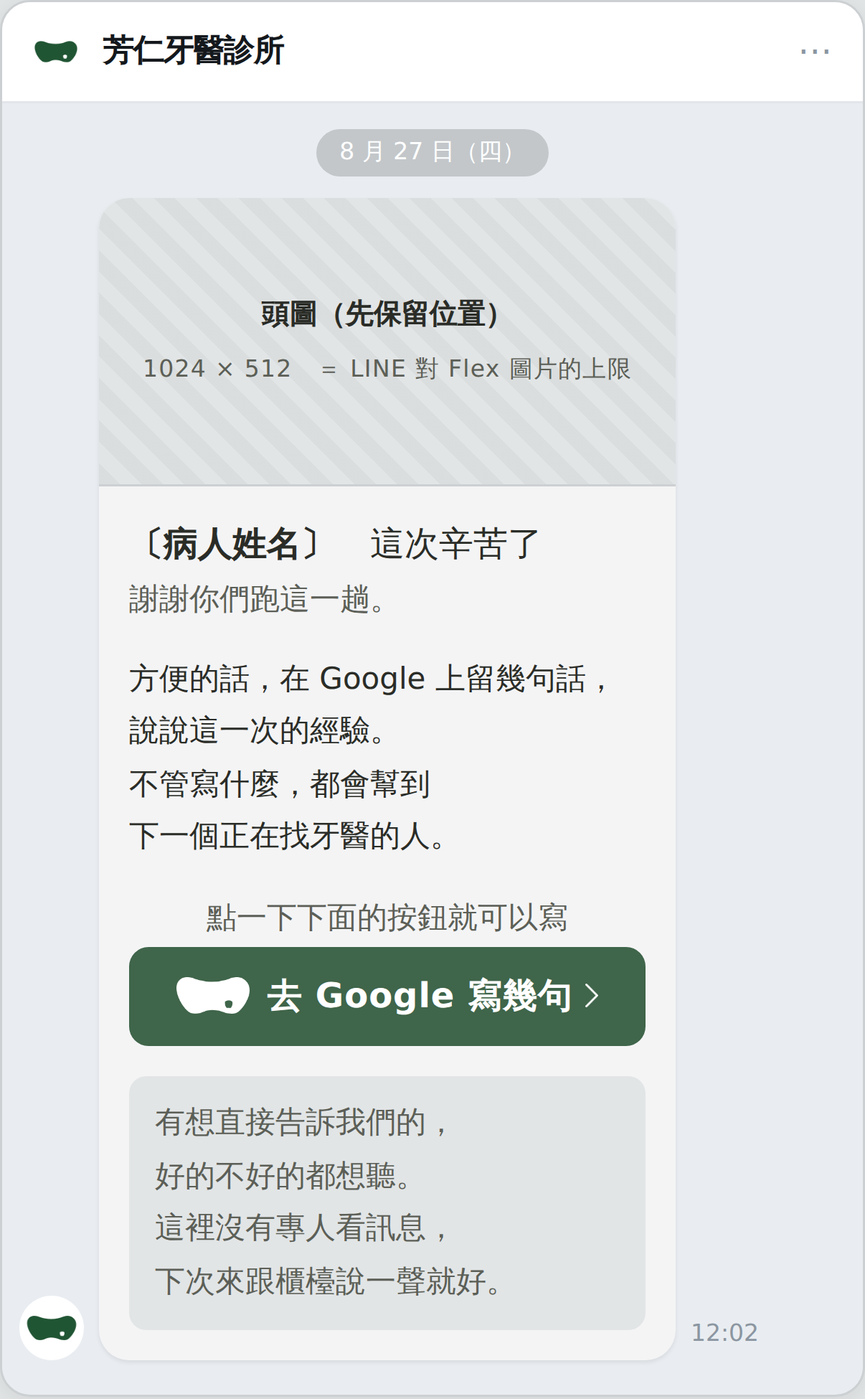
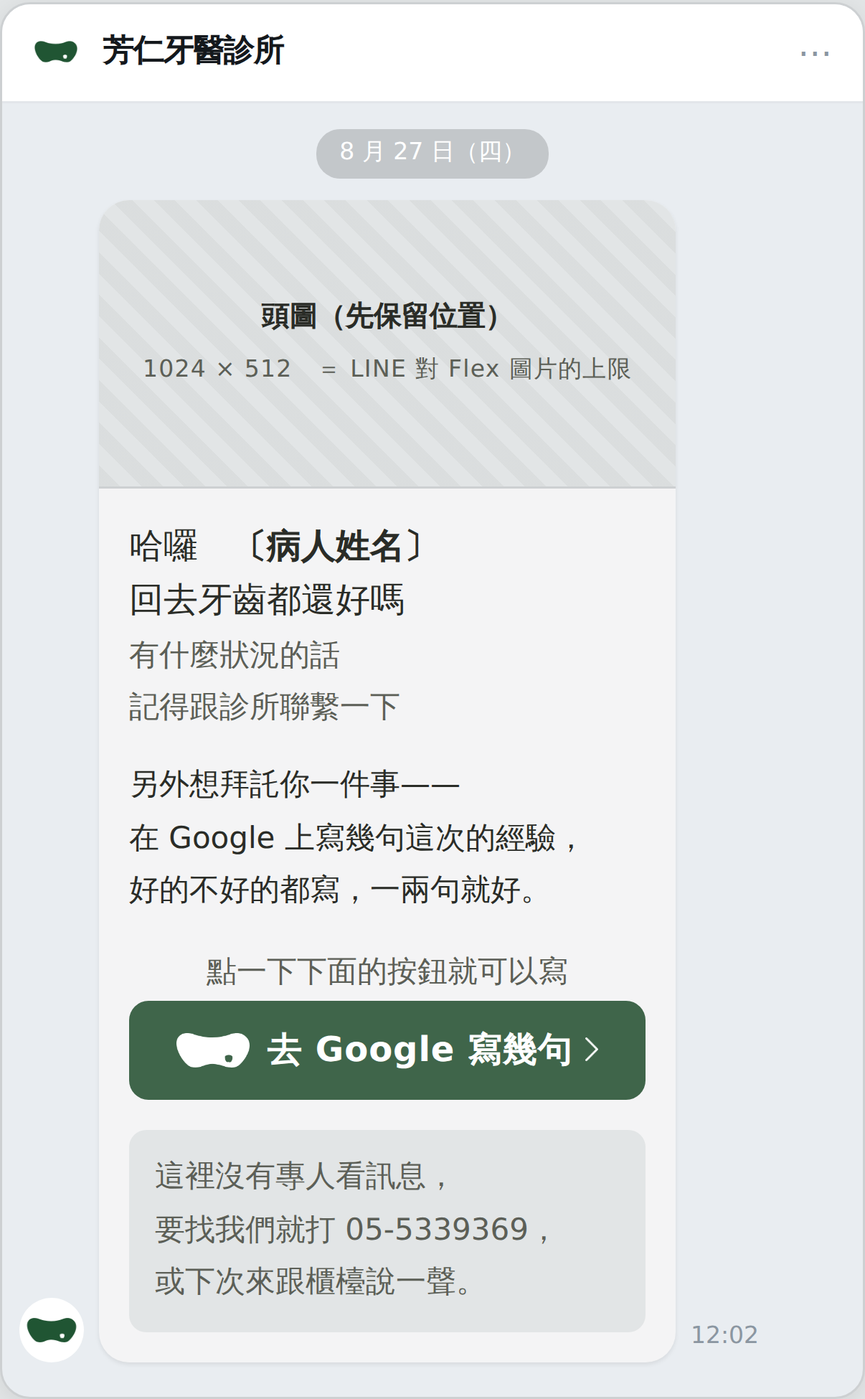
評價邀約第二輪：開場換成你寫的，下面那段五案
使用者：開場改成「哈囉 病人姓名 回去牙齒都還好嗎／有什麼狀況的話
記得跟診所聯繫一下」，下面的文字再給幾個方案，現在的太溫柔太客氣。

開場用字一個都沒改，只做斷行（名字那一行只能自己一行）。

⚠⚠ 他這一句把整張卡的順序換掉了：先關心、再開口。原本第一句
「〔病人姓名〕 這次辛苦了」是對已經過去的事道辛苦；他這一版問的是
現在，而且先給了一件對病人有用的事，才輪到我們要的那一件。

⚠⚠⚠ 而它讓底下那一塊變得更必要不是更不必要 —— 他叫病人「跟診所
聯繫」，而病人手邊最近的按鈕就是在這個 LINE 裡回一句，這裡沒有人看。
那一塊因此從「另外給一個意見管道」變成「回答他自己丟出來的問題」。

「太溫柔太客氣」拆開來是三件各自獨立的事：
・墊詞（「方便的話」把請求包起來，像在道歉）
・不敢說是自己要的（把受益者推給第三人，不承認是診所在拜託人）
・句子太長（短句本身就比較不客氣，靠刪不靠換字）

⚠⚠⚠ 但有一條線不可以跟著跨過去：不可以先問滿不滿意 ——
「如果覺得還不錯」是分流的另一種寫法，而且比現況那兩顆按鈕更難被
發現。五案裡一句都沒有，Ⓐ 與 Ⓒ 還反過來明寫「好的不好的都寫」。

量到（430／393／390／375／360）：卡片 268.0、高 540/565/516/516/565、
自己斷幾行＝畫出幾行、孤字 0、水平溢出 0、JS 錯誤 0、切換條 16.6~19.8%。

出圖多了 --all 與 --ask=；並排那一張是先各拍一張真的卡再排進一頁重拍，
不是用 CSS 畫五次。

Claude-Session: https://claude.ai/code/session_01GSJCb3BPxiub8X8z4jV3jJ

diff --git a/preview/line-review/index.html b/preview/line-review/index.html
@@ -92,7 +92,7 @@ h1{font-size:1rem;font-weight:700;letter-spacing:.02em}
 /* ---- Ⓑ 新版：和招呼圖卡／綁定完成／提醒卡同一套（卡 268、內距 14）--------
    顏色一顆都沒新增，全部回 PALETTE.md 拿：
      卡 #f4f4f5・墨 #2a2c27・柔墨 #5c5f57・線 #cdd0d2・綠 #3f654a・深階 #2c5238
-     意見那一塊 ＝ --paper 直接鋪（紙灰，同提醒卡的「就診須知」那一塊） */
+     聯繫那一塊 ＝ --paper 直接鋪（紙灰，同提醒卡的「就診須知」那一塊） */
 .pv-new{background:var(--card)}
 /* 頭圖：**先保留位置**（使用者 2026-09-04 指定）。
    規格和另外兩則一樣：Flex 的 hero，size:full ＋ aspectRatio 2:1，
@@ -111,7 +111,18 @@ h1{font-size:1rem;font-weight:700;letter-spacing:.02em}
 .pv-new .top img{width:20px;height:20px;border-radius:50%;display:block}
 .pv-new .top b{font-size:14px;font-weight:400;color:var(--ink-soft);letter-spacing:.06em}
 .pv-new .b{padding:14px}
-/* 開場。⚠⚠⚠ 第 17-4 節那條規則：**這個帳號的每一張卡都要假設「讀的人不是病人本人」**
+/* 開場：**使用者 2026-09-05 自己寫的**（「哈囉　病人姓名　回去牙齒都還好嗎／
+   有什麼狀況的話記得跟診所聯繫一下」）。**用字一個都沒改，只做兩件事**：
+   ⚠ ① **斷行** —— 名字是系統填的，那一行只能自己一行（同提醒卡）；
+        第二句也自己斷，不交給自動換行。
+   ⚠⚠ ② 他這一句**把整張卡的順序換掉了**：先關心、再開口。
+        原本第一句是「〔病人姓名〕　這次辛苦了」，那是**對已經過去的事道辛苦**；
+        他這一版問的是**現在**（回去之後好不好），而且**先給了一件對病人有用的事**
+        （有狀況要聯繫），才輪到我們要的那件事。
+   ⚠⚠⚠ 而它連帶讓底下那一塊變得**更**必要不是更不必要：他叫病人「跟診所聯繫」，
+        病人手邊最近的按鈕就是**在這個 LINE 裡回一句** —— 而這裡沒有人看。
+        所以「這裡沒有專人看訊息」那一句現在是**在回答他自己丟出來的問題**。
+   ⚠⚠⚠ 底下仍然守著第 17-4 節那條規則：**這個帳號的每一張卡都要假設「讀的人不是病人本人」**
    （一個帳號綁多位家人是已確認的事實）。所以病人的名字要當**受詞**（那一次看診是誰的），
    不要當**稱謂**（在跟誰講話）—— 現況那句「親愛的 王丞睿，您願意推薦…」正是把
    讀的人和病人混成同一個（那張卡送到阿嬤的帳號，開頭卻在叫孫子的名字）。
@@ -119,7 +130,7 @@ h1{font-size:1rem;font-weight:700;letter-spacing:.02em}
      一個帳號收得到好幾個家人的訊息，「這一次是誰」要一眼看到。
    ⚠ 「這次」不寫「今天」—— 這一則什麼時候送我們還沒問到（第 17-6 節），
      寫「今天」的話晚一天送就是錯的。 */
-.pv-new .hi{font-size:16px;line-height:1.6;color:var(--ink)}
+.pv-new .hi{font-size:16px;line-height:1.6;color:var(--ink);white-space:pre-line}
 .pv-new .hi b{font-weight:700}
 .pv-new .lead{font-size:14px;line-height:1.7;color:var(--ink-soft);margin-top:2px;
   white-space:pre-line}
@@ -203,7 +214,8 @@ h1{font-size:1rem;font-weight:700;letter-spacing:.02em}
   ⚠⚠ 這一則不只是美感問題：現在那一張<b>把人分成兩條路</b>
   （願意 → 分享體驗／不願意 → 提供建議），<b>那可能是 Google 明文禁止的評論篩選</b>，
   而商家檔案是這間診所最大的入口。新版<b>不分流</b>。<br>
-  底下切換<b>現況</b>與<b>新版</b>，再用兩把尺挑<b>語氣</b>與<b>意見那一塊</b>
+  <b>開場是你 2026-09-05 自己寫的</b>；底下那一段給你<b>五案</b>挑，
+  另一把尺是<b>聯繫那一塊</b>
   （切換條右上角可以<b>收起</b>）。
   推導在 <code>drafts/channels/README.md</code> 第十七、二十一節。</p>
 
@@ -226,8 +238,8 @@ h1{font-size:1rem;font-weight:700;letter-spacing:.02em}
 <div class="pv-bar" id="pv-bar">
   <button class="fold" id="pv-fold" aria-expanded="true">收起</button>
   <div class="r"><span class="lb">版本</span><span id="sw-v"></span></div>
-  <div class="r" id="row-w"><span class="lb">為什麼寫</span><span id="sw-w"></span></div>
-  <div class="r" id="row-f"><span class="lb">意見那塊</span><span id="sw-f"></span></div>
+  <div class="r" id="row-a"><span class="lb">下面那段</span><span id="sw-a"></span></div>
+  <div class="r" id="row-f"><span class="lb">聯繫那塊</span><span id="sw-f"></span></div>
 </div>
 
 <span class="pv-probe" id="pv-probe"></span>
@@ -245,35 +257,45 @@ h1{font-size:1rem;font-weight:700;letter-spacing:.02em}
 
   var TEL = "05-5339369";
 
-  /* ---- 為什麼要寫這幾句（唯一真的是「品味」的那一格）------------------
-     ⚠⚠ 三格的差別**不是修辭，是這張卡站在誰那一邊**：
-       a 站在下一個病人那一邊（＝站上「診所給的是燈」那條）
-       b 站在寫的人那一邊（他的幾句話有重量）
-       c 站在診所那一邊（幫我們變好）
-     ⚠ a 那一句「不管寫什麼，都會幫到」是**刻意寫進去的** —— 它當著病人的面
-       說清楚「我們不是只想要好評」，是這張卡不分流最直接的證據。 */
-  var WHY = {
-    a: { name: "幫到下一個人", text: "不管寫什麼，都會幫到\n下一個正在找牙醫的人。" },
-    b: { name: "你寫的有重量", text: "你寫的幾句話，會是\n下一個人挑診所時的線索。" },
-    c: { name: "讓我們更好",   text: "不管寫什麼我們都會看，\n知道哪裡還可以再好一點。" }
+  /* ---- 開口要的那一段：五案（2026-09-05 使用者：「現在的版本太溫柔太客氣」）----
+     ⚠⚠⚠ 「太客氣」拆開來是**三件各自獨立的事**（同第九節第 17 條那個淡出）：
+       ① **墊詞** ——「方便的話」「如果不介意」那一類，把請求包起來，
+          讀起來像在道歉。**Ⓐ~Ⓓ 一律沒有。**
+       ② **不敢說是自己要的** —— 原本那句「會幫到下一個正在找牙醫的人」
+          把受益者推給第三人，聽起來很得體，但**它不承認這是診所在拜託人**。
+       ③ **句子太長** —— 四行、每行都完整，反而像公關稿。**短句本身就比較不客氣。**
+     ⚠⚠⚠ **但有一條線不可以跟著跨過去：不可以先問滿不滿意。**
+       「如果覺得還不錯」「滿意的話」都是**分流的另一種寫法**（第 17-3 節），
+       而且比現況那兩顆按鈕更難被發現，因為它看起來只是一句客套。
+       **五案裡一句都沒有**，Ⓐ 與 Ⓒ 還反過來明寫「好的不好的都寫」。 */
+  var ASK = {
+    a: { name: "拜託一件事", text: "另外想拜託你一件事——\n在 Google 上寫幾句這次的經驗，\n好的不好的都寫，一兩句就好。" },
+    b: { name: "很多人在看", text: "現在很多人是看 Google 評論\n才決定要不要來。\n你寫的一兩句，\n就是下一個人的參考。" },
+    c: { name: "順手寫幾句", text: "順手在 Google 上寫幾句吧，\n好的不好的都寫。" },
+    d: { name: "想知道你怎麼看", text: "我們想知道你怎麼看這次的看診。\n在 Google 上寫幾句，寫什麼都行。" },
+    e: { name: "現在的（客氣）", text: "方便的話，在 Google 上留幾句話，\n說說這一次的經驗。\n不管寫什麼，都會幫到\n下一個正在找牙醫的人。" }
   };
 
-  /* ---- 意見那一塊（給所有人，不是「不滿意的人才走這條」）----------------
-     ⚠⚠⚠ 這一塊是**新版能不能不分流的關鍵**：拿掉分流之後，想抱怨的人不能沒有出口，
+  /* ---- 聯繫那一塊（給所有人，不是「不滿意的人才走這條」）----------------
+     ⚠⚠⚠ 2026-09-05 起這一塊的工作變了：使用者自己寫的開場叫病人「記得跟診所聯繫
+       一下」，而病人手邊**最近的按鈕就是在這個 LINE 裡回一句** —— 這裡沒有人看。
+       所以它現在是**在回答他自己丟出來的問題**（要聯繫，聯繫哪裡），
+       順便才是「私下的管道給所有人」那一件。
+     ⚠⚠⚠ 拿掉分流之後，想抱怨的人不能沒有出口，
        所以私下的管道要**給所有人**、寫在同一張卡上，而不是藏在「不願意」那一顆後面。
      ⚠⚠ 預設不放電話鈕，理由是量出來的：這間診所的電話**本來就結構性忙線**
        （六個月 1,886 通來自商家檔案，第 2-1 節），再把「想講幾句話」也導進電話，
        等於拿最稀缺的那條線去接最不急的事。櫃檯是免費、而且本來就會遇到的。
      ⚠ 但這是**診所的事實**不是我的品味（櫃檯願不願意接、有沒有人記），所以擺成一把尺。 */
   var FB = {
-    desk: { name: "只跟櫃檯說", text: "有想直接告訴我們的，\n好的不好的都想聽。\n這裡沒有專人看訊息，\n下次來跟櫃檯說一聲就好。", tel: false },
-    tel:  { name: "加電話鈕",   text: "有想直接告訴我們的，\n好的不好的都想聽。\n這裡沒有專人看訊息，\n跟櫃檯說，或打給我們。", tel: true },
+    desk: { name: "只跟櫃檯說", text: "這裡沒有專人看訊息，\n要找我們就打 " + TEL + "，\n或下次來跟櫃檯說一聲。", tel: false },
+    tel:  { name: "加電話鈕",   text: "這裡沒有專人看訊息，\n要找我們打電話，\n或下次來跟櫃檯說一聲。", tel: true },
     none: { name: "不放",       text: "", tel: false }
   };
 
-  var v = "new", why = "a", fb = "desk";
+  var v = "new", ask = "a", fb = "desk";
   var m = location.search.match(/[?&]v=(old|new)/); if (m) v = m[1];
-  m = location.search.match(/[?&]w=([a-z0-9]+)/); if (m && WHY[m[1]]) why = m[1];
+  m = location.search.match(/[?&]a=([a-z0-9]+)/); if (m && ASK[m[1]]) ask = m[1];
   m = location.search.match(/[?&]f=([a-z0-9]+)/); if (m && FB[m[1]]) fb = m[1];
 
   /* ---- Ⓐ 現況（照 channels/README 第 17-2 節的逐字紀錄重畫）------------ */
@@ -304,10 +326,9 @@ h1{font-size:1rem;font-weight:700;letter-spacing:.02em}
       + '<div class="hero"><b>頭圖（先保留位置）</b>'
       + '<span>1024 × 512　＝ LINE 對 Flex 圖片的上限</span></div>'
       + '<div class="b">'
-      + '<p class="hi"><b>〔病人姓名〕</b>　這次辛苦了</p>'
-      + '<p class="lead">謝謝你們跑這一趟。</p>'
-      + '<p class="ask">方便的話，在 Google 上留幾句話，\n說說這一次的經驗。\n'
-      + WHY[why].text + '</p>'
+      + '<p class="hi">哈囉　<b>〔病人姓名〕</b>\n回去牙齒都還好嗎</p>'
+      + '<p class="lead">有什麼狀況的話\n記得跟診所聯繫一下</p>'
+      + '<p class="ask">' + ASK[ask].text + '</p>'
       + '<p class="cta">點一下下面的按鈕就可以寫</p>'
       + '<span class="btn"><img src="../line-welcome/mark-white.png" alt="">'
       + '<span>去 Google 寫幾句</span>'
@@ -437,10 +458,10 @@ h1{font-size:1rem;font-weight:700;letter-spacing:.02em}
     if (v === "new") {
       var hi = body.querySelector(".hi");
       probe.style.font = getComputedStyle(hi).font;
-      probe.textContent = "李小明　這次辛苦了";
+      probe.textContent = "哈囉　李小明";
       nameW = probe.getBoundingClientRect().width;
       for (var i = 2; i <= 9; i++) {
-        probe.textContent = Array(i + 1).join("名") + "　這次辛苦了";
+        probe.textContent = "哈囉　" + Array(i + 1).join("名");
         if (probe.getBoundingClientRect().width > avail) break;
         nameMax = i;
       }
@@ -517,7 +538,7 @@ h1{font-size:1rem;font-weight:700;letter-spacing:.02em}
           : "")
       /* ⚠⚠ 對比度只對 Ⓑ 報 —— Ⓐ 那張卡的綠是**我從截圖描的**，不是量的，
          拿它算出來的比值會變成一個看起來很像發現、其實是自己編的數字。 */
-      + (v === "new" ? line("意見那一塊", knowC, 4.5)
+      + (v === "new" ? line("聯繫那一塊", knowC, 4.5)
                      + line("按鈕白字", btnC, 4.5)
                      + line("電話鈕", telC, 4.5) : "")
       + "<br>沒有專人那件事 " + (lied.length
@@ -568,23 +589,30 @@ h1{font-size:1rem;font-weight:700;letter-spacing:.02em}
       + "<br>⚠⚠ 這個改法<b>同時解掉品牌問題</b>：現在那一張是整個帳號裡最像推銷的一則，"
       + "而站上的紅線第一條就是<b>不推銷</b>。"
       + "<hr>"
-      + "<b>⚠⚠ 名字當受詞，不當稱謂</b>（第 17-4 節那條規則，這個帳號每一張卡都適用）："
-      + "<br>現況「<b>親愛的 王丞睿，您</b>願意推薦…」把讀的人和病人混成一個；"
-      + "新版是「<b>〔病人姓名〕　這次辛苦了</b>」—— 名字說的是<b>那一次看診是誰的</b>，"
-      + "接著「<b>謝謝你們跑這一趟</b>」才是對讀的人說（阿嬤、媽媽、子女都對）。"
-      + "<br>⚠ 「這次」<b>不寫「今天」</b> —— 這一則什麼時候送我們還沒問到，"
-      + "寫「今天」的話晚一天送就是錯的。"
-      + "<br>⚠ 名字<b>加粗</b>（Flex 就是一個 span 加 weight: bold）：一個帳號收得到"
-      + "好幾個家人的訊息，「這一次是誰」要一眼看到。面板現場量了「幾個字以內不會折」。"
+      + "<b>開場是你 2026-09-05 自己寫的</b>（「哈囉　病人姓名　回去牙齒都還好嗎／"
+      + "有什麼狀況的話記得跟診所聯繫一下」）。<b>用字一個都沒改</b>，只做了<b>斷行</b>："
+      + "名字是系統填的，那一行只能自己一行（同提醒卡），第二句也自己斷。"
+      + "<br>⚠⚠ <b>這一句把整張卡的順序換掉了：先關心、再開口。</b>"
+      + "原本第一句是「〔病人姓名〕　這次辛苦了」——那是對<b>已經過去</b>的事道辛苦；"
+      + "你這一版問的是<b>現在</b>（回去之後好不好），而且<b>先給了一件對他有用的事</b>"
+      + "（有狀況要聯繫），才輪到我們要的那一件。<b>要東西之前先給東西，這是對的。</b>"
+      + "<br>⚠ 名字仍然是<b>受詞不是稱謂</b>（第 17-4 節）：這一則會送到阿嬤、媽媽、"
+      + "子女的帳號，「哈囉　〔名字〕」問的是<b>那個人的牙齒</b>，不是在對名字本人講話。"
+      + "名字<b>加粗</b>，一個帳號收得到好幾個家人的訊息，「這一次是誰」要一眼看到。"
       + "<hr>"
-      + "<b>意見那一塊為什麼預設不放電話鈕</b>"
-      + "<br>這間診所的電話<b>本來就結構性忙線</b>（六個月光是從商家檔案就打進 1,886 通，"
-      + "第 2-1 節）。把「想講幾句話」也導進電話，等於<b>拿最稀缺的那條線去接最不急的事</b>；"
-      + "櫃檯是免費的，而且他下次本來就會來。"
-      + "<br>⚠ 但<b>櫃檯願不願意接、有沒有人記下來</b>是<b>診所的事實</b>不是我的品味，"
-      + "所以擺成一把尺讓你決定。"
-      + "<br>⚠⚠ 「<b>這裡沒有專人看訊息</b>」那一句<b>非寫不可</b>："
-      + "我們才剛請他「說幾句話」，不寫的話他會直接在 LINE 裡回，然後<b>沒有人看得到</b>。"
+      + "<b>⚠⚠⚠ 你那一句同時讓底下那一塊變得<u>更</u>必要，不是更不必要。</b>"
+      + "<br>你叫病人「<b>記得跟診所聯繫一下</b>」——而他手邊<b>最近的按鈕，"
+      + "就是在這個 LINE 裡回一句話</b>，然後沒有人看得到。"
+      + "所以底下那一塊現在的工作**不是「另外給一個意見管道」，是<b>回答你自己丟出來的問題</b>："
+      + "要聯繫，聯繫哪裡。"
+      + "<br>⚠ 它也順便守住第 17-3 節那條：<b>私下的管道給所有人</b>，"
+      + "不是「不滿意的人才走這條」。"
+      + "<br>⚠ <b>預設不放電話鈕的理由是量出來的</b>：這間診所的電話<b>本來就結構性忙線</b>"
+      + "（六個月光是從商家檔案就打進 1,886 通，第 2-1 節）。"
+      + "但<b>櫃檯接不接得住</b>是<b>診所的事實</b>不是我的品味，所以擺成一把尺。"
+      + "<br>⚠ 號碼寫在說明句裡、<b>沒有做成按鈕</b>（第十一之四節那條通則：按鈕是"
+      + "「現在請你做這件事」）。代價是 <b>Flex 裡的文字不會自動變成可撥的</b> ——"
+      + "要它撥得下去得在那一行掛 <code>tel:</code>，外觀完全不變，<b>還沒問過你要不要</b>。"
       + "<hr>"
       + "<b>⚠ 還沒有的東西（上線之前一定會卡住）</b>"
       + "<br>① <b>按鈕的網址還沒有</b> —— Google 的「寫評論」深連結需要診所的 Place ID，"
@@ -626,14 +654,14 @@ h1{font-size:1rem;font-weight:700;letter-spacing:.02em}
     document.getElementById("pv-slot").innerHTML = v === "old" ? oldHtml() : newHtml();
     bar("sw-v", { old: { name: "Ⓐ 現況" }, new: { name: "Ⓑ 新版" } },
         function () { return v; }, function (k) { v = k; });
-    bar("sw-w", WHY, function () { return why; }, function (k) { why = k; });
+    bar("sw-a", ASK, function () { return ask; }, function (k) { ask = k; });
     bar("sw-f", FB, function () { return fb; }, function (k) { fb = k; });
     /* 現況那一張是廠商的，這兩把尺對它無效 —— 關掉而不是拿掉，
        不然切回新版時整條會跳高一截。 */
-    ["row-w", "row-f"].forEach(function (id) {
+    ["row-a", "row-f"].forEach(function (id) {
       document.getElementById(id).className = "r" + (v === "old" ? " off" : "");
     });
-    var q = v === "old" ? "?v=old" : "?v=new&w=" + why + "&f=" + fb;
+    var q = v === "old" ? "?v=old" : "?v=new&a=" + ask + "&f=" + fb;
     history.replaceState(null, "", location.pathname + q);
     measure();
     document.getElementById("pv-note").innerHTML = note();
@@ -656,14 +684,29 @@ h1{font-size:1rem;font-weight:700;letter-spacing:.02em}
       + "<b>新版做了什麼（三件，其餘一個字都沒多加）</b>"
       + "<br>① <b>拿掉分流</b>：同一個邀請給所有人，私下的意見管道也給所有人。"
       + "<br>② <b>名字從稱謂變成受詞</b>：這個帳號一個人收得到好幾個家人的訊息。"
-      + "<br>③ <b>把「為什麼要寫」講出來</b>：不是為了診所的分數，"
-      + "是<b>幫到下一個正在找牙醫的人</b> —— 那正是站上「診所給的是燈」那條。"
+      + "<br>③ <b>先關心、再開口</b>（你 2026-09-05 寫的開場）——要東西之前先給東西。"
+      + "<hr>"
+      + "<b>⚠⚠⚠ 「太溫柔太客氣」——拆開來是三件各自獨立的事</b>"
+      + "<br>① <b>墊詞</b>：「方便的話」把請求包起來，讀起來像在道歉。"
+      + "<br>② <b>不敢說是自己要的</b>：「會幫到下一個正在找牙醫的人」把受益者推給第三人，"
+      + "很得體，但<b>它不承認這是診所在拜託人</b>。"
+      + "<br>③ <b>句子太長</b>：四行、每行都完整，反而像公關稿。<b>短句本身就比較不客氣。</b>"
+      + "<br>五案各自動到不同的那幾件 —— <b>Ⓐ 動①②、Ⓑ 動②、Ⓒ 動①②③、Ⓓ 動①②</b>，"
+      + "<b>Ⓔ 是現在這一版</b>，留著對照。"
+      + "<hr>"
+      + "<b>⚠⚠⚠ 但有一條線不可以跟著跨過去：不可以先問滿不滿意。</b>"
+      + "<br>「如果覺得還不錯」「滿意的話再幫我們寫」——那是<b>分流的另一種寫法</b>，"
+      + "而且<b>比現況那兩顆按鈕更難被發現</b>，因為它看起來只是一句客套。"
+      + "<b>五案裡一句都沒有</b>；Ⓐ 與 Ⓒ 還反過來明寫「<b>好的不好的都寫</b>」。"
       + "<hr>"
       + "<b>兩把尺</b>"
-      + "<br>⚠ <b>「為什麼寫」那三格是真的品味題</b>，差別不是修辭是<b>這張卡站在誰那一邊</b>："
-      + "<b>a</b> 站在下一個病人那一邊、<b>b</b> 站在寫的人那一邊、<b>c</b> 站在診所那一邊。"
-      + "我建議 <b>a</b>。"
-      + "<br>⚠ <b>「意見那塊」是診所的事實題</b>（櫃檯接不接得住、電話還撐不撐得住），"
+      + "<br>⚠ <b>下面那一段（五案）</b>——我建議 <b>Ⓐ 拜託一件事</b>："
+      + "它把「這是我們在拜託你」講出來（那正是客氣版不敢講的），"
+      + "又用「一兩句就好」把門檻壓到最低。"
+      + "<b>最不客氣的是 Ⓒ</b>（兩行、沒有任何鋪陳）；"
+      + "<b>Ⓑ 是唯一給理由的</b>（很多人看評論才決定要不要來 —— 那是事實，也是這一則"
+      + "真正的動機）；<b>Ⓓ 把主詞換成診所</b>（我們想知道），語氣最平、最像在對談。"
+      + "<br>⚠ <b>「聯繫那塊」是診所的事實題</b>（櫃檯接不接得住、電話還撐不撐得住），"
       + "我建議 <b>只跟櫃檯說</b>，理由在面板底下。"
       + "<br>⚠ 其餘每一件我都自己決定了，沒有列成選單 ——"
       + "<b>你給的是內容與意圖，不是規格</b>（第 18-1 節）。"

diff --git a/CLAUDE.md b/CLAUDE.md
@@ -2322,7 +2322,7 @@ topics/<spec>/         ← 產出。**不要手改**，重跑就沒了
 | **綁定完成** | ✅ **2026-09-04 定稿**（使用者：「最後定稿的是這個」）：**Ⓗ 你整理的・圖卡 ＋ 有頭圖 ＋ 改約那一塊用淡藍 `.10` 的淡底**。Flex 的 JSON 在 **`drafts/channels/bind-done-card.json`**，規格頁 `/preview/line-bind-done/`（**切換條已拿掉**），守門 **`node drafts/channels/check-bind-done.mjs`**，圖片兩張（`node drafts/channels/bind-done-png.mjs`，加 `--chat` 出第二張）：`shot-bind-done.png`（卡片本身，804×1857，3×）與 **`shot-bind-done-chat.png`**（**在 LINE 裡長什麼樣的模擬**，1206×2427，3×）。⚠ 模擬那張要用 **430 寬**拍 —— 429 以下手機框會貼齊頁面兩邊、圓角與左右框線被拿掉。⚠ **換視窗寬度截圖之前要先量「要展示的那個東西有沒有跟著變」**：實測 390 與 430 卡片都是 **268.0px**，只有周邊留白差 12px（第 **19-21** 節）。⚠ **Ⓖ 沒有真的落選** —— 它是「廠商送不出 Flex Message」時的退路（同一份內容一字不差），規格頁最底下仍然畫著它。⚠⚠ **兩塊淡底在 JSON 裡要寫合成後的實色**（警示 `#EEE5E6` ＝ 磚紅 .09、改約 `#E2E8EF` ＝ 淡藍 .10），不要寫半透明。⚠ **沒有拆成 body ＋ footer**（招呼卡那樣拆是因為中間有 separator，這一張兩塊方塊之間刻意沒有分隔線）。推導在第 **19-20** 節。以下是走到定稿的過程 —— **提案中**：`/preview/line-bind-done/`（**八案**，2026-09-03 開；**Ⓖ／Ⓗ 是使用者 2026-09-04 自己整理的那一份**，Ⓖ 純文字、Ⓗ 同一份做成圖卡，帶進三件新事實：提醒**要回覆確認**、**24 小時沒回應系統會自動取消**並遞補、家人綁定**要洽櫃檯**）。推導在 `drafts/channels/README.md` **第十九節**（09-04 那一輪在 **19-12**），定稿文字在 `drafts/line-auto-reply/README.md` 第 24-2 節「貳」。⚠ 使用者挑完才寫 Flex 的 JSON。⚠⚠ **時間的說法 2026-09-04 定案「看診前 48 小時」**，切換條上那一排已經收掉；**但招呼圖卡仍然寫「看診前2天」**（使用者自己逐字寫的、已定案），兩則目前不一致，**要統一得他點頭**。⚠ 這個 48 小時和「看診日 2 天前（不含假日）」是兩個不同的數字（提醒時機 vs 改約期限），**不要順手改成一致**。⚠⚠ 2026-09-04 再兩件（第 **19-13** 節）：「這裡沒有專人即時回覆訊息」**搬到改約那一段前面**（它是「為什麼要打電話」的前提）；24 小時那一段接上一把**強調**的尺（`?e=`），**兩種容器的四格不一樣** —— LINE 的**純文字訊息沒有粗體也沒有顏色**，只剩空行與記號，Flex 圖卡才做得到加粗／換色／淡底方塊。⚠⚠ 2026-09-04 再兩件（第 **19-15** 節）：**圖卡那一側定案「淡底方塊」**（切換條上收掉、寫死；純文字那一側還沒定案、那一排還在）；**改約那一句換成使用者的寫法**「約診更改或取消，最晚請於看診日前 2 天（不含假日）、於診所開診時段來電變更」——「最晚」把期限講死，**「開診時段」取代「週一至週五」**（國定假日休不休診還沒問到，寫「開診時段」就不必替診所答那一題）。⚠ 其餘六案仍是舊寫法，**刻意沒動**，等他挑完哪一案再統一。⚠⚠ 2026-09-04 再一件（第 **19-16** 節）：**改約那一段也做成淡底方塊**，底色四選一（紙灰／品牌綠／深綠松／同上面），**兩塊之間那條分隔線拿掉了**。⚠⚠ **綠與深綠松是 `.16` 不是 `.09`** —— 量過，九分之一濃時四個底色全部落在 **1.1 階**之內（L\* 90.6~91.7），**四格長得一模一樣、那把尺沒有意義**；`.16` 才讀得出是綠的，代價是比上面那塊磚紅重約 4 階。**通則：一把尺給出去之前先算四格彼此差多少，差不出來的尺比沒有尺還糟**。⚠⚠ 2026-09-04 再三件（第 **19-17** 節）：**加了淡藍、深綠松那一格拿掉**（深綠松 `.16` 是 L\* 86.2・彩度 2.5，和品牌綠的 87.6・2.7 分不出來）；淡藍**不能用官方色票那支** `#3C596B`（`.16` 彩度只剩 2.5，讀起來是灰的），取的是**齒顎矯正那支套色** `#4478b5`（`.16` 彩度 6.3，站上唯一淡開之後還讀得出是藍的）——**已知取捨：那是矯正的顏色**，但這一則不在站上也不在任何科別頁裡，不會和標記撞在一起。**通則的第二半：每一格還要撐得起它自己的名字，判準是彩度不是色相。**⚠ **數字前後那幾個半形空格拿掉了**（我照站上內文的習慣加的，他自己寫的那一份沒有），「（不含假日）」的**全形括號換成半形**（全形一組吃掉約 19px）。⚠⚠ **Ⓗ 那兩段之間的空行換成段落間距**：`\n\n` 是一整行 **24.5px**，拆成兩個 `text` ＋ 一個 `margin` 是 **8px**。**通則：Flex 裡兩段的距離有兩把工具，不要只會用空行**（`margin` 有 xs 4 ~ xxl 24 六階）；**Ⓖ 純文字那一側沒有這把工具，只有空行**。⚠⚠ 2026-09-04 再兩件（第 **19-18** 節）：**淡藍收到 `.10`**（使用者：「淡藍色看過去比上面的淡紅色還濃　要調成一樣的」）——「一樣濃」＝ **兩塊合成到卡色之後的 L\* 相同**，基準是磚紅 `.09` 的 L\* 91.6，反解出 a = .101。⚠⚠⚠ **而只有藍做得到，品牌綠與深綠松兩格因此都拿掉了**：壓到同一個 L\* 之後剩下的彩度是**淡藍 4.06**／磚紅 3.29／官方藍 1.50／品牌綠 1.37／深綠松 1.19，而**紙灰自己就是 1.18** ——「等重的綠」畫出來就是紙灰那一格。尺剩三格（紙灰／淡藍 .10／同上面）。**通則的第三半：「看得出顏色」與「和旁邊等重」是兩個要求，只有夠飽和的色相同時滿足得了；判斷方法是把每一支色壓到目標 L\* 再看誰的彩度還在。**⚠ **Ⓗ 那一對全形「」拿掉了，改成把選單名加粗**（使用者：「「」的全形也有很大的空格」）——`「`／`」` 各佔一整個全形字寬但墨只有角落那一撇，一對吃掉 **28.3px**（那一行 183.8 → 155.5）。Flex 就是一個 `span` 加 `weight: bold`，顏色不動。⚠⚠ **Ⓖ 純文字那一對留著，不是漏改** —— 純文字沒有粗體，拿掉引號就標示不出那是選單名。⚠ 實作：`<b>` **不可以寫進資料裡**（`spec()` 要拿同一份字串比對孤字），資料維持純文字、多一個 `strong` 欄位，`render()` 那一層才包。⚠ 2026-09-04 **存成圖片了**（第 **19-19** 節）：`node drafts/channels/bind-done-png.mjs` → `preview/line-bind-done/shot-card-{pa,bl,br}.png`（圖卡三格底色）、`shot-text.png`（純文字泡泡）、`shot-cards.png`（三格並排）。⚠⚠ **出在 `preview/` 不是 `drafts/`** —— drafts 進不了 `_site`，而使用者要的是「也存在網路上」（招呼卡那支 `card-png.mjs` 出在 drafts/，兩支落點不同是刻意的）。⚠⚠ **拍的是提案頁自己那張卡**，所以**那一頁改了就要重跑**，不然圖會開始說謊 |
 | 綁定完成的頭圖 | ✅ **2026-09-03 第四版定案**（使用者：「很不錯，就用這個圖吧」）—— 成品 `preview/line-bind-done/hero-bind.jpg`（**1024×512**，`node drafts/bind-done-hero-crop.mjs`，原檔 `drafts/bind-done-v4-src.jpg`），已接進提案頁 Ⓑ 那一案。定稿提示詞與逐輪推導在 **`drafts/line-bind-done-prompt.md`** —— 〈創造亞當〉的診間版（Gemini 出圖，使用者自己跑，走了四版）。⚠⚠⚠ **不要把原作那個「上帝在上」抹平成兩人等高** ——第一版就是這樣被退回的（寓意沒了，而且兩個成年人同高對指會被讀成醫病關係不單純）：**一側是一團人、飄著、比較高，另一側一個人躺著、比較低**，這個不對等就是那張畫的梗。⚠ 但**不對等只能靠位置給、不可以靠肌肉張力給** —— 第三版把病患的手寫成鬆垮的，整個人看起來像喝醉（＝麻醉或鎮靜的聯想）。⚠ 臉一律照站上那一套（有膚色、眉毛、鼻子、有表情的嘴），**不隨風格參考圖走**。逐輪紀錄與六條驗收在那一份，通則在 ILLUSTRATION.md 第十三節 |
 | **提醒卡（看診前 48 小時）** | ✅ **2026-09-04 定稿**（使用者：「完工」）：**Ⓑ 新版 ＋ 頭圖 ＋「點一下下面的按鈕，讓我們知道喔」＋ 只有主鈕的角形 ＋ 圓角方框 ＋ 那句離按鈕 5px**（八把尺全部收成寫死的值、切換條整條拿掉）。規格頁 `/preview/line-remind/`，Flex 的 JSON **`drafts/channels/reminder-card.json`（已重寫，可以拿給廠商了）**，守門 `node drafts/channels/check-remind.mjs`，圖三張 `node drafts/channels/remind-png.mjs`（加 `--chat`／`--old`）。⚠⚠⚠ **寫 JSON 時撞到一件：margin 的數字不會和 CSS 逐字相同，而那是對的** —— 規格頁量的是**墨到墨**，而行高 1.7 在字面下方藏了 **4.8px 的半行距**，同一段在 Flex 的 `text` 元件裡本來就有，所以他挑的「5px」換算成 Flex 是 **`margin: "0px"`**。**通則：把量好的版面翻成另一個排版引擎時，要翻的是「畫出來的距離」，不是屬性值** —— 守門因此不比對 margin 的數字，比對**畫出來的上下比例**（兩組都要 17.0 / 5.0）。⚠ Flex 的 `margin`／`padding` **吃 px 字串**，不必湊 `xs/sm/md` 那張四的倍數表。⚠⚠ **姓名與日期兩處刻意不逐字比對**（JSON 寫 `{{patient}}`／`{{date}}`、規格頁寫看得懂的示範值），守門改成檢查「固定的那一段一樣 ＋ 兩邊都是變數的位置 ＋ 規格頁上不准直接印 `{{…}}`」—— **第一版照字面比，兩處都誤報**。⚠ `那句離按鈕` 是唯一從我建議的那一格換掉的（我 8＝0.47，他挑 **5＝0.29**），**上面那 17.0 一樣沒動**。⚠ 量到：卡片 268.0、高 **579.9**、孤字 0、水平溢出 0、JS 錯誤 0，**仍然比現況 615 矮而且帶著頭圖**。⚠ 只留一個網址參數 `?v=old` ＝ 廠商目前在送的那一則。推導在 `drafts/channels/README.md` 第 **20-16** 節。以下是走到定稿的過程 —— 2026-09-04 開了提案頁（兩案 ＋ 四把尺）。⚠⚠ **文案 2026-09-04 晚間換成使用者自己寫的**（哈囉／病人名字／提醒2天後有約要看牙齒喔／日期／按鈕「ok 沒問題」＋logo／須知只留兩條），**加了頭圖**（2026-09-04 稍晚使用者選定並接上，見本列最後一段）。⚠⚠⚠ **取消鈕那一題的分析結論：建議留，但維持文字鈕** —— 真正重要的理由只有一個：**拿掉之後「來不了」和「沒看到訊息」在診所眼裡會變成同一件事**（24 小時沒回應一律自動取消），而診所對這兩種人的處理本來就不一樣（重要療程會打電話追、定期檢查就當他不想來）—— 那顆按鈕是目前唯一分得出來的東西。次要理由：誤按沒有回頭路。**「兩顆會稀釋主要動作」成立，所以留成文字鈕不是實心第二顆**（現況那一顆本來就是文字鈕，那一點現況是對的）。⚠⚠ **「須知寫來電改約、底下又有按鈕」不是二選一** —— 解法是把兩件事講成兩件事：**按鈕＝告訴我們你不會來、電話＝重新約時間**，寫成一前一後就不打架了。**通則：兩個管道看起來打架時，先問它們是不是同一個動作。**⚠⚠⚠ **「2天後」有事實風險**：真截圖那一則是 7/3（五）送、約診 7/6（一）＝ **3 天**，寫死「2天後」對那位病人是錯的，週一週二的約診都會對不上。三條路（維持但要廠商保證固定／**把天數拿掉**，日期本來就在下一行且最大／讓系統填）已經列給他挑 —— **沒有自己改掉他的字**。**通則：使用者寫的字裡有一個會出錯的事實時，照寫、把證據攤開、給選項，不要自己改也不要不講。**⚠⚠ **他把「戴口罩」拿掉了**（現況第 1 條有），照做了但那是**政策改變不是文案精簡，要醫師點頭**。⚠ **主鈕做成可點的 box 不是 `button`**（Flex 的 button 不支援圖示），logo 用招呼卡已產好的 `mark-white.png`（34px），沒有另產一份。⚠ **有頭圖就把頂端那行診所名拿掉**（同綁定完成），切到不放圖它會回來。⚠⚠ **開場那一句要拆兩行**（「哈囉　〔名字〕」／「提醒2天後…」）—— 他原句把變數夾在中間，名字一長會把「喔」擠成孤字；拆開之後 8 個字的名字都還在寬度內。**用字一個都沒改。**⚠ 量到：現況 615px(73%)／新版全留**含頭圖 789px(94%)**／全砍 378px(45%)，頭圖自己就 134px。⚠⚠ 頭圖畫的時候有一個和綁定完成不一樣的條件：**這一則每次約診都送一次，同一個人一年看很多次 —— 要耐看，不要有太強的梗**。⚠⚠ 這一頁是使用者約好要定**版型與那顆確認的按鈕**的地方（第 19-12 節），定完再回頭看綁定完成那一則要不要多寫一句。推導在 `drafts/channels/README.md` **第二十節**。~~⚠⚠⚠ **`drafts/channels/reminder-card.json` 是 2026-09-02 的舊版，不要拿給廠商**~~ —— **2026-09-04 定稿時已經整份重寫**，現在就是定案的那一張（見本列開頭）。⚠⚠ **24 小時自動取消那件事是「這一張卡」的事**：那 24 小時是從這一則送出的那一刻開始算的，綁定完成那一則只是先告訴他有這回事 —— 所以非寫在提醒卡上不可，不然病人是在不知情的狀態下被計時。⚠⚠ **現況那一張是從使用者 2026-09-04 的真截圖逐像素量出來重做的**（內文 16px、姓名與日期 22px、內距 22px、標題列 43.7、按鈕 60、「⚠ 就診須知 ⚠」**靠右不是置中**）——⚠⚠⚠ **第一版是「照描」的，字級全部猜小了（內文猜成 14、內距猜成 13），把現況量成 438px，結論整個錯**。**通則：照截圖描一份和量一份是兩件事** —— 描出來的很像，數字全錯，而後面每一個判斷都建立在那些數字上。重量之後：現況 615px（73%）、新版全留 696px（82%）、全砍 460px（55%），**新版只多 81px**。⚠⚠⚠ **那張截圖是診所端的後台不是病人手機**（標題是病人名字、有「使用手動聊天」與「已讀」），所以它的卡片 348px **不是病人看到的寬度**；⚠ 而 **268 這個數字我們從來沒有在病人手機上量過**（是招呼卡那一輪的工作值）—— 方向是安全的（真的更寬只是保守），但**要一張病人手機的截圖才收得掉**。⚠⚠⚠ **它不是 48 小時送的**：截圖上 7/3（五）送、約診 7/6（一）＝ 3 天。48 小時前是週六、診所沒開 —— 可能是**系統會避開休診日**（那 19-12 那題有一半有答案了），也可能是**固定 3 天前**。**一個樣本推不出通則，要再看一兩則不同星期的**，或直接看後台排程。⚠ 順帶：協議期限是 7/2（四），7/3 送仍然晚一個開診日 —— 8-1 那個矛盾還在，只是沒那麼嚴重。⚠⚠ **有變數的那一行不能手動斷行**（`{{patient}}` 是系統填的）—— 做法是把「提醒您，」單獨一行、讓變數那一行從行首開始，名字 8 個字以內都不會折。⚠ 日期只要求兩件（拿掉年份、月日改中文），**括號維持廠商現在的半形** —— 要求的改動愈小愈可能真的改到。⚠ 「沒有專人＋改約期限＋電話」那一整塊**逐字沿用綁定完成那一則**（淡藍 `.10`），同一件事兩則用同一組字。⚠ 圖三張 `node drafts/channels/remind-png.mjs`（加 `--old`／`--chat`），**拍的是提案頁自己那張卡，那一頁改了就要重跑**。⚠ 時機**維持 48 小時**（第 15-9 節已結案，不要再提拆兩次或用開診日算）。時間換算 `timing.mjs`。⚠⚠⚠ **2026-09-04 深夜第三輪：兩塊淡底整個拿掉、兩顆新按鈕**（第 **20-12** 節）——使用者六件逐字：請攜帶健保卡／如有發燒…請多休息並來電改約／**粉紅底整個拿掉**／取消鈕**加 logo**（shape_r2c3 嘴巴倒過來）／新增「臨時有事須改約，請致電診所」＋**電話鈕**／**藍灰底整個拿掉**；稍晚兩件：**次要那顆的字改成他寫的「掰掰不去囉」**（原本是我擬的「我不能到」）、**電話鈕上面那一句改成「突然有事想改時間，請致電診所」**（原本是我擬的「臨時有事須改約」）。⚠⚠ 至此**這張卡上每一個字都是使用者自己寫的**，我擬的兩處都被換掉了，方向是同一個：**「須」是規定的口氣、「改約」是診所的行話**，他的版本是病人自己會講的話。**通則：我們寫得出正確的句子，寫不出他那種口氣 —— 文案的最後一哩要留給他。**⚠⚠⚠ **「牙洞怎麼調」的答案是不必調** —— 那顆標誌是單一路徑、洞靠 `fill-rule: evenodd` 挖的，**整張上下翻**（繞自己 bbox 中線）洞就跟著翻到右葉下半、仍然被包著；**只翻外框、洞留原位的話，洞會落在形狀外面、靜靜地消失而且不報錯**。產生器 `remind-marks.mjs` 因此加了守門（逐列數「被墨包住的透明像素」，<30 就 throw，實測 1502 ✓）。⚠ **尺寸是算出來的不是挑的**：主鈕那顆 34px 寬→高 16.8，所以 **nogo 也給 34px**（高 11.0）、**話筒給 16.8px 寬**（＝同高），三顆才像一組。⚠⚠ **取消鈕做成線框鈕不是第二顆綠鈕** —— 「兩顆會稀釋主要動作」成立，所以同框同 logo、但底是空的。⚠⚠⚠ **拿掉那兩塊各帶走一件事實，已經寫在頁面底下給他看**：粉紅底帶走「24 小時沒回應會自動取消並遞補」（**那 24 小時是從這一則送出算的，拿掉之後病人是在不知情的狀態下被計時**；給了兩個補救、**那把尺留著**、沒有自己加回去）；藍灰底帶走「沒有專人」與「看診日前 2 天（不含假日）」——**後者拿掉其實是對的**（這張卡 48 小時才送，期限那時已經過了，它的家是綁定完成那一則）。⚠⚠ **電話做成按鈕不違反 09-04 那條通則** —— 那一條禁的是「說明句裡的號碼穿按鈕的衣服」，而這裡上一句「請致電診所」本身就是叫他現在打。**通則：判斷一個東西該不該做成按鈕，看它上一句話。**⚠ 上一輪那句 `fine`（按了我們會打電話）拿掉了 —— 現在是「請致電診所」在做同一件事，留著會兩句搶同一個位置。⚠ 量測（430／393／390／375／360）：卡片 268.0、高 **563.8**、孤字 0、水平溢出 0、JS 錯誤 0、最寬一行 205.2（可用 240）、八個對比 0 個不過（主鈕 6.62／兩顆線框鈕 8.06／那一句 5.92）、切換條 24.0%／收起 5.1%。⚠⚠ **新版現在比現況矮**（563.8 vs 615）**而且還帶著頭圖** ——上一輪「只多 81px」那句作廢。⚠⚠⚠ **2026-09-04 深夜第四輪：「少了要病患點下去的感覺」**（第 **20-13** 節）——使用者：「原來的版本有說點擊回覆，按鈕上也有手勢提示，你們想一下怎麼弄。」⚠⚠⚠ **拆開來是三件各自獨立的事**（同第九節第 17 條那個淡出）：**①有沒有一句話開口叫他點**（現況有、我們拿掉了，**影響最大** —— 這一則的工作就是「請你回覆」，按鈕再像按鈕也不如一句話直接開口）、**②按鈕上的「往前走」記號**（現況是 👉）、**③按鈕看起來像不像鈕**（現況是藥丸，我們是圓角方框，而**方框在這一站是「框」的語彙**、框不見得等於可以按）。**修一個不會治好另外兩個。**⚠⚠⚠ **還有第四件而且畫面上補不回來**：主鈕是「可點的 box」不是 Flex 的 `button`（button 放不進圖示，而使用者要 logo），**box 沒有按壓效果** —— 「點下去的感覺」有一半是按下那一瞬間的回饋，那一半為了 logo 已經換掉了。⚠ **LINE 對可點的 box 會不會給按壓反白，我們沒有實機驗過**、文件也沒寫 ——**加進廠商那幾題**；「主鈕的形狀」最後一格「真的按鈕（沒 logo）」就是這個取捨，**擺出來讓他比、不是建議**。三條尺 `?c=`／`?g=`／`?s=`，**預設開在建議的那一組**（`c=b`＋`g=main`＋`s=box`）。⚠⚠ **角形用站上自己那一條**（首頁「往下滑」、「回到最上面」、文章卡「繼續讀」同一條，**把 x/y 對調轉成朝右**），**不要打一個「›」** —— 那個字在 Android 與 iOS 上長得不一樣、粗細也對不上。⚠⚠ **筆畫的形狀 `getBBox()` 量不到**（不含 stroke），外框要自己算；產生器的「檔案太小＝空圖」門檻因此從位元組改成**看墨佔多少**（角形只有 21%）。⚠ **角形跟著「字」走不是跟著標誌走**：16px 的字配 11px 高 → 5.3px 寬 ——**三顆圖示的基準各不相同**（nogo 34px 寬跟著標誌、話筒 16.8px 寬＝和主鈕標誌同高），**那不是漏改成一致**。⚠⚠ **現況那句話搬到 268px 會折出孤字「診 ↓」**（三個寬度都是）—— 那句是在**診所端後台 348px 的框**裡看的，**再一次證明病人那一側的寬度要自己量**。⚠ 量到：建議那一組 601.5px（仍比現況 615 矮、而且帶著頭圖）、孤字 0、水平溢出 0、JS 錯誤 0。⚠ **切換條收掉三把已定案的尺**（頭圖／24 小時／就診須知，手機一次只放得下四條），**網址參數仍然吃得到**（`?w=box` 把 24 小時放回來）。⚠⚠⚠ **2026-09-04 深夜第五輪：「那一句和按鈕的間隔很大」**（第 **20-14** 節）——⚠⚠⚠ **量出來問題不是「太大」，是「上下一樣大」**：上面（方塊→字面）17.0、下面（字面→按鈕）**18.8**，**下面反而還大一點**，那句話因此浮在正中間、眼睛沒有理由把它歸給按鈕（接近律）。**所以要改的是上下的比例，不是兩邊一起縮** ——**上面那 17.0 一個字都沒動**（它是「就診須知」與「請你回覆」的分界）。尺 `?p=` 量的是**字面到按鈕**：18.8（1.11）／12（0.70）／**8（0.47，預設）**／5（0.29）。⚠⚠ **看得到的距離不等於 `margin`** —— 行高 1.7 讓字面下方多 **4.8px 的半行距**，`margin-top:14` 畫出來是 18.8；margin 由 `calc(var(--ctagap) - 4.8px)` 扣掉，面板每一格現場重量。**通則：「兩個東西看起來多遠」要量墨到墨，不是盒到盒** ——中文的行高把 3~5px 藏在字的上下，寫 margin 的人看不到。⚠ **電話那一句吃同一條規則、跟著一起動**：這張卡有**兩組「一句話＋一顆按鈕」**，間隔不一致會被讀成兩種不同的關係。⚠⚠⚠ **踩到一個坑：自訂屬性不會傳給兄弟** —— 第一版把 `--ctagap` 設在那一句自己身上，而用它的規則是 `.cta + .btn`（作用在**兄弟**上），於是一路退回預設值：**按了沒反應、不報錯、四格量出來一模一樣**（同第九節第 24、25 條那種病，**只有拿數字量才看得出來**）。**通則：一個變數要影響兄弟，就要設在它們的父層。**⚠ 量到：卡片 268.0、高 **585.9**、孤字 0、水平溢出 0、JS 錯誤 0、兩組都是 17.0/8.0；切換條 **24.7%**（「叫他點的那句」那一列的**標籤**縮短才從 27.5% 收回一列，**卡片上的字一個都沒動**）。⚠ **切換條再收掉「掰掰不去囉」那把尺**（他已說「這樣很好」），`?n=text`／`?n=drop` 仍然吃得到。⚠ 稍晚一件：**「突然有事想改時間，請致電診所」改置中**（使用者指定）——改完**兩組「一句話＋一顆按鈕」的排法完全一致**（兩句都置中、兩顆按鈕本來就置中）；只動 `text-align`，高度、折行、間隔一個數字都沒變。⚠⚠⚠ **2026-09-04：頭圖選定並接上**（使用者：「圖片選好了」「用這張圖片　合併成通知提醒頁面」）—— 候診間裡一群人在揮手（病人、家屬、小孩、長輩與診所的人），站上那套手繪語彙。原檔 `drafts/remind-hero-src.jpg`（1376×768），成品 **`preview/line-remind/hero-remind.jpg`（1024×512）**，產圖 `node drafts/channels/remind-hero-crop.mjs`。⚠⚠ **裁法是上 16 / 下 64，不是對稱的 40/40** —— 16:9 收成 2:1 要拿掉 80 列，而**上面幾乎沒有餘裕**（深墨從第 43 列就開始，對半裁只剩 3 列、頭會貼著上緣），**下面每一列都是墨但那是身體與手不是臉**（最低的下巴在第 660 列上下，裁到第 704 列碰不到任何一張臉），**收緊反而讓臉在 268px 上大一點**。四個候選（0/80、16/64、28/52、40/40）**縮到真實的 268px 並排比過**，只有 40/40 看得出頭髮被切、其餘三個分不出來 —— **判準因此回到「餘裕」與「臉的大小」這兩個量得出來的東西**。⚠⚠ **守門不能照抄 `bind-done-hero-crop.mjs`**：那張圖四邊都是紙底，拿「邊緣中位亮度 vs 紙底」就抓得到烘進去的白框；**這一張四邊全是墨**，同一道會一直誤報。改成四道：①長寬比 ②深墨（<120，每列 ≥8 點）離上緣 ≥12 列（臉沒被切）③邊緣要「**又均勻又亮**」才算白框（p95−p5 < 6 且中位 > 紙底−3）④不超過 LINE 的 1024×1024。⚠ **`width`／`height` 屬性一定要寫** —— 不寫的話圖還沒下載完高度是 0，面板會報出一個比實際矮 134px 的卡片。⚠ 接上圖之後五個寬度逐項**和佔位符那一版相同**（卡片 268.0、高 585.9、頭圖 268×134、孤字 0、水平溢出 0、兩組 17.0/8.0）——佔位符本來就是照 `aspect-ratio: 2/1` 預留的。⚠ 切換條那把尺改名「放頭圖」。⚠⚠ **選圖時看著的是這一則自己的條件：耐看** —— 每一次約診都送一次，同一個人一年看很多次；一群人揮手沒有笑點可以用完（綁定完成那張〈創造亞當〉一輩子只出現一次，可以更用力）。⚠ 圖換了就要重跑 `remind-png.mjs`。推導在 `drafts/channels/README.md` 第 **20-15** 節 |
-| **評價邀約（看診後）** | ⏳ **2026-09-04 開提案頁**（使用者：「製作 line 發送評價邀約訊息頁面　先保留圖卡空間　內容你們討論好　做預覽給我看」）。就是第十七節那張**滿意度調查卡**。提案頁 `/preview/line-review/`（兩案 ＋ **兩把尺**），圖三張 `node drafts/channels/review-png.mjs`（加 `--old`／`--chat`），推導在 `drafts/channels/README.md` **第二十一節**。⚠⚠⚠ **這一則和另外三則不一樣：它不只是「醜」的問題** —— 現在那一張**先問「您願意推薦…嗎？」再把人分成兩條路**（願意 → 分享體驗／不願意 → 提供建議），**如果只有前者通向 Google，那是 review gating**（只向滿意的人索取公開評論），據我所知是 Google 明文禁止的，而**商家檔案是這間診所最大的入口**（六個月 14,973 次瀏覽、1,886 通電話）。⚠⚠ **但那兩顆按鈕連到哪裡仍然沒有答案**（第 17-3 節那三題），所以立場沒變：**這是「要問」不是「你們違規了」** —— 問到之前**不要把新版送上去，也不要急著把舊的關掉**。**新版做了三件**：①**拿掉分流**（同一個邀請給所有人，私下的意見管道也給所有人、不是「不滿意的人才走這條」）②**名字從稱謂變成受詞**（第 17-4 節：那則送到阿嬤的帳號、「親愛的 王丞睿，您…」卻指著孫子；新版「〔病人姓名〕　這次辛苦了／謝謝你們跑這一趟」）③**把「為什麼要寫」講出來** —— 不是為了診所的分數，是**幫到下一個正在找牙醫的人**（＝站上「診所給的是燈」那一條）。⚠⚠ 「**不管寫什麼，都會幫到下一個正在找牙醫的人**」那一句是刻意寫的：它當著病人的面說清楚**我們不是只想要好評**，是這張卡沒有分流最直接的證據。⚠ **沒有標題**（現況那個「滿意度調查」是公家表格的詞，而且標題說滿意度、內文問推薦意願是兩件事）。⚠⚠ 「**這裡沒有專人看訊息**」那一句**非寫不可** —— 才剛請他「說幾句話」，不寫的話他會直接在 LINE 裡回、而沒有人看得到。⚠ **只給兩把尺**（其餘照第 18-1 節自己決定）：**為什麼寫**（三格，真的品味題 —— 差別是**這張卡站在誰那一邊**：下一個病人／寫的人／診所，建議第一格）、**意見那一塊**（三格，**診所的事實題** —— 櫃檯接不接得住，建議「只跟櫃檯說」）。⚠ **預設不放電話鈕的理由是量出來的**：電話本來就結構性忙線（六個月 1,886 通），把「想講幾句話」也導進去等於**拿最稀缺的那條線接最不急的事**。⚠⚠ **頭圖先保留位置**（使用者指定），佔位框和真圖**一樣高**（`aspect-ratio: 2/1`）—— **所以現在量到的高度等圖進來也不會變**；不這樣做的話今天量的每一個數字都會在出圖那天作廢。⚠⚠ **提案頁踩到兩件**（都是「量測壞掉但畫面正常」）：**①量行與字數要只看 `.b` 不能量整張卡** —— 佔位框裡那兩行說明會被算成「被再折出來的行」，「最寬的一行」還會變成那句佔位說明；**通則：佔位用的東西不可以進量測**。**②Ⓐ 現況那張的對比度不要報** —— 它的綠是**我從截圖描的不是量的**（那張截圖沒有可以逐像素反推的行，不像提醒卡那一輪），拿描來的顏色算比值會生出一個**看起來很像發現、其實是自己編的數字**（第一版就報了「按鈕白字 3.49 不過」）。⚠⚠⚠ **一條紅線：不可以拿好處換評價**（折價、抽獎、送洗牙都不行）—— Google 明文禁止，醫療機構在台灣還多一層招徠的疑慮；面板有一列在掃。⚠ **按鈕的網址還沒有**：Google 的「寫評論」深連結需要 **Place ID**，我們只有分享短網址 —— 同綁定那顆按鈕的缺口。⚠ 量到：卡片 268.0、高 **539.8**、自己斷 12 行／畫出 12 行、孤字 0、水平溢出 0、JS 錯誤 0、對比 5.14／6.62／8.06 都過 AA、**emoji 0・「親愛的」0・「斗六芳仁」0**、切換條 15.5%。⚠⚠ **Flex 的 JSON 等使用者挑完才寫**（同前兩則的順序），在那之前不要拿任何東西給廠商 |
+| **評價邀約（看診後）** | ⏳ **2026-09-04 開提案頁**（使用者：「製作 line 發送評價邀約訊息頁面　先保留圖卡空間　內容你們討論好　做預覽給我看」）。就是第十七節那張**滿意度調查卡**。提案頁 `/preview/line-review/`（兩案 ＋ **兩把尺**），圖三張 `node drafts/channels/review-png.mjs`（加 `--old`／`--chat`），推導在 `drafts/channels/README.md` **第二十一節**。⚠⚠⚠ **這一則和另外三則不一樣：它不只是「醜」的問題** —— 現在那一張**先問「您願意推薦…嗎？」再把人分成兩條路**（願意 → 分享體驗／不願意 → 提供建議），**如果只有前者通向 Google，那是 review gating**（只向滿意的人索取公開評論），據我所知是 Google 明文禁止的，而**商家檔案是這間診所最大的入口**（六個月 14,973 次瀏覽、1,886 通電話）。⚠⚠ **但那兩顆按鈕連到哪裡仍然沒有答案**（第 17-3 節那三題），所以立場沒變：**這是「要問」不是「你們違規了」** —— 問到之前**不要把新版送上去，也不要急著把舊的關掉**。**新版做了三件**：①**拿掉分流**（同一個邀請給所有人，私下的意見管道也給所有人、不是「不滿意的人才走這條」）②**名字從稱謂變成受詞**（第 17-4 節：那則送到阿嬤的帳號、「親愛的 王丞睿，您…」卻指著孫子；新版「〔病人姓名〕　這次辛苦了／謝謝你們跑這一趟」）③**把「為什麼要寫」講出來** —— 不是為了診所的分數，是**幫到下一個正在找牙醫的人**（＝站上「診所給的是燈」那一條）。⚠⚠ 「**不管寫什麼，都會幫到下一個正在找牙醫的人**」那一句是刻意寫的：它當著病人的面說清楚**我們不是只想要好評**，是這張卡沒有分流最直接的證據。⚠ **沒有標題**（現況那個「滿意度調查」是公家表格的詞，而且標題說滿意度、內文問推薦意願是兩件事）。⚠⚠ 「**這裡沒有專人看訊息**」那一句**非寫不可** —— 才剛請他「說幾句話」，不寫的話他會直接在 LINE 裡回、而沒有人看得到。⚠ **只給兩把尺**（其餘照第 18-1 節自己決定）：**為什麼寫**（三格，真的品味題 —— 差別是**這張卡站在誰那一邊**：下一個病人／寫的人／診所，建議第一格）、**意見那一塊**（三格，**診所的事實題** —— 櫃檯接不接得住，建議「只跟櫃檯說」）。⚠ **預設不放電話鈕的理由是量出來的**：電話本來就結構性忙線（六個月 1,886 通），把「想講幾句話」也導進去等於**拿最稀缺的那條線接最不急的事**。⚠⚠ **頭圖先保留位置**（使用者指定），佔位框和真圖**一樣高**（`aspect-ratio: 2/1`）—— **所以現在量到的高度等圖進來也不會變**；不這樣做的話今天量的每一個數字都會在出圖那天作廢。⚠⚠ **提案頁踩到兩件**（都是「量測壞掉但畫面正常」）：**①量行與字數要只看 `.b` 不能量整張卡** —— 佔位框裡那兩行說明會被算成「被再折出來的行」，「最寬的一行」還會變成那句佔位說明；**通則：佔位用的東西不可以進量測**。**②Ⓐ 現況那張的對比度不要報** —— 它的綠是**我從截圖描的不是量的**（那張截圖沒有可以逐像素反推的行，不像提醒卡那一輪），拿描來的顏色算比值會生出一個**看起來很像發現、其實是自己編的數字**（第一版就報了「按鈕白字 3.49 不過」）。⚠⚠⚠ **一條紅線：不可以拿好處換評價**（折價、抽獎、送洗牙都不行）—— Google 明文禁止，醫療機構在台灣還多一層招徠的疑慮；面板有一列在掃。⚠ **按鈕的網址還沒有**：Google 的「寫評論」深連結需要 **Place ID**，我們只有分享短網址 —— 同綁定那顆按鈕的缺口。⚠ 量到：卡片 268.0、高 **539.8**、自己斷 12 行／畫出 12 行、孤字 0、水平溢出 0、JS 錯誤 0、對比 5.14／6.62／8.06 都過 AA、**emoji 0・「親愛的」0・「斗六芳仁」0**、切換條 15.5%。⚠⚠ **Flex 的 JSON 等使用者挑完才寫**（同前兩則的順序），在那之前不要拿任何東西給廠商。⚠⚠⚠ **2026-09-05 第二輪：開場換成使用者自己寫的，下面那一段給五案**（第 **21-9** 節）——他給的逐字是「哈囉　病人姓名　回去牙齒都還好嗎／有什麼狀況的話記得跟診所聯繫一下」，另加一句「**下面的文字再給我幾個方案讓我選。現在的版本太溫柔太客氣。**」⚠ 開場**用字一個都沒改，只做斷行**（名字那一行只能自己一行）。⚠⚠ **他這一句把整張卡的順序換掉了：先關心、再開口** —— 原本第一句「〔病人姓名〕　這次辛苦了」是對**已經過去**的事道辛苦，他這一版問的是**現在**，而且**先給了一件對病人有用的事**（有狀況要聯繫）才輪到我們要的那一件。**要東西之前先給東西。**⚠⚠⚠ **而它讓底下那一塊變得更必要，不是更不必要**：他叫病人「記得跟診所聯繫一下」，而病人手邊**最近的按鈕就是在這個 LINE 裡回一句** —— 這裡沒有人看。所以那一塊的工作從「另外給一個意見管道」變成「**回答他自己丟出來的問題**：要聯繫，聯繫哪裡」，文字改成「這裡沒有專人看訊息／要找我們就打 05-5339369／或下次來跟櫃檯說一聲」（號碼**沒有做成按鈕**，第十一之四節；代價是 Flex 的文字不會自動可撥，要掛 `tel:` 還沒問過他）。⚠⚠⚠ **「太溫柔太客氣」拆開來是三件各自獨立的事**（同第九節第 17 條）：**①墊詞**（「方便的話」把請求包起來，讀起來像在道歉）、**②不敢說是自己要的**（「會幫到下一個正在找牙醫的人」把受益者推給第三人，很得體，但**不承認這是診所在拜託人**）、**③句子太長**（四行、每行完整，像公關稿；**短句本身就比較不客氣**，這一條靠刪不靠換字）。⚠⚠⚠ **但有一條線不可以跟著跨過去：不可以先問滿不滿意** ——「如果覺得還不錯」是**分流的另一種寫法**，而且**比現況那兩顆按鈕更難被發現**，因為它看起來只是一句客套。**五案裡一句都沒有**，Ⓐ 與 Ⓒ 還反過來明寫「好的不好的都寫」。五案（`?a=`）：**Ⓐ 拜託一件事（建議，動①②）**／Ⓑ 很多人在看（動②，唯一給理由的）／Ⓒ 順手寫幾句（動①②③，最不客氣）／Ⓓ 想知道你怎麼看（動①②，主詞換成診所）／Ⓔ 現在的（對照）。⚠ 量到：卡片 268.0、高 **540／565／516／516／565**、自己斷幾行＝畫出幾行、孤字 0、水平溢出 0、JS 錯誤 0、兩組間隔 17.0/5.0、切換條 16.6~19.8%。⚠⚠ 出圖多兩個開關：`--all`（五案各一張 ＋ 並排）與 `--ask=c`。**並排那一張是「先各拍一張真的卡，再把那五張圖排進一頁重拍」，不是用 CSS 把卡片畫五次**（同 og-topic-card 那一輪）；它是橫的又是 2× 不是 3×，**守門要跳過「高比寬還小」那一道、而且比例尺要一起傳進去**，不然會誤報 |
 | **預約成功通知 ＋ 約診紀錄查詢** | ⏳ **2026-09-04 開了提案頁 `/preview/line-booked/`（兩則 ＋ 三把尺，還沒定案）**。使用者給了兩張截圖：「一個是預約好當下跳出的通知，另一個是點開查詢預約跳出的已預約時段，**感覺可以一起製作　你們先改改看**。」⚠⚠ **他是對的**：兩張卡內容 95% 一樣，差的只有查詢那一張多一行「預約狀態」—— 它們是**同一張卡的兩個狀態**，所以提案頁共用一個殼。⚠⚠⚠ **這兩則原本不在第 14-3 節那張盤點表裡** —— 第 16-5b 節「我盤的是截圖不是清單」**第二次被證實**（第一次是滿意度調查卡），**已知的自動訊息從四則變成七則**，而且還不知道有沒有第八則。**廠商那份「會自動送出哪幾則」的清單因此從「做得更好」升級成「非要不可」**。⚠⚠ **截圖又是診所端的後台**（標題是病人名字、有「已讀」與「預約傳送」）——內容是病人看到的，寬度不是。⚠⚠⚠ **但這一次挖到一個等很久的數字**：同一張截圖裡同時有兩種卡，所以是同一個客戶端的同一次量測 —— **單張泡泡 348.7×261.3、輪播裡一張 269.3×316.3、兩張之間 8.7 ＝ 輪播只有單張的 77.2%**；**左右內距兩種都是 22.3（窄了 79px 卻一點都沒收）**，可用寬度因此從 304.1 掉到 **224.7（−26%）**。提案頁的輪播畫在 268 × .772 ＝ **207px**。⚠⚠⚠ **但 207 是推導值**，它建立在一個沒收掉的假設上：LINE 的泡泡寬度是**跟著螢幕縮放**還是**每一種 size 固定 px**。若是後者，**348.7 才是真值、我們用了三輪的 268 反而偏窄 30%**。**兩種讀法分不出來，面板兩種都算；能分出來的只有一張病人手機的截圖**（這個請求從 20-10 開著到現在，這一輪之後重要很多）。⚠⚠⚠ **現況第一嚴重的是日期真的被截斷**：「2026/08/20 15:45 星...」—— 成因是**同一個帳號有兩種日期格式**，而**最長的那一種正好被放進最窄的卡裡**（查詢那張寫 `2026/08/20 15:45 星期四`，預約成功與提醒卡寫 `2026/08/25 (二) 10:15`）。⚠⚠ **只把字改短救不了**（寬度還沒確定）——**真正的修法是讓它折行**（Flex 的 text 預設就會折，是廠商設了 `maxLines: 1` 才會截）：放得下一行、放不下兩行，**哪一種寬度都不會有字消失**；縮短格式是在這之上再多買一層餘裕。⚠⚠⚠ **第二嚴重的是「預約狀態　尚未回覆」**：**誰還沒回覆？**第一個讀法是診所還沒回（會讓他等），第二個讀法是他要回，**但卡上沒有一個地方可以回**。而 24 小時沒回應會自動取消那件事（19-12）如果是同一個欄位，就不只是說法問題 —— **要跟廠商要那張狀態表**（有幾種值、各是什麼意思、和提醒卡那顆確認鈕是不是同一個）。**在那之前那把尺只是換說法，沒有一格敢寫「已為你保留」那一類的話** —— 那是替一個我們不懂的狀態下定義。⚠ 第三：**標誌區塊 87.0px ＝ 整張卡的 33.3%，而那一塊的墨只佔 2.3%**（而且它就出現在診所自己的聊天室裡）。⚠ 第四：**兩張是兩套模板**（單張有分隔線、輪播沒有；輪播的標誌反而大 1.19 倍；明細列 16 vs 14）。⚠ 第五：**標籤那個灰 `#979797` 對白底只有 2.92**。⚠⚠ **新版：一個殼兩個狀態** —— 預約成功有開場那一行、**輪播沒有**（清單裡每張都重寫一次名字＝浪費整行 × N）；**輪播的日期就是第一行**（他要看的是什麼時候）；預約成功結尾多一句「看診前2天會再提醒你一次」把三則串起來（**逐字沿用招呼圖卡，不要改成 48 小時**）。⚠ **這一輪一顆淡底彩色方塊、一顆按鈕都沒有** —— 這兩則是**收據**，沒有要他現在做什麼；電話是說明不是行動（19-14）。⚠ **頭圖預設不放，理由和提醒卡相反**：提醒卡一次送一張、圖是趣味；**輪播一次送 N 張，一張圖就是 N × 104px**，而且他是來查時間的（`?h=y` 看得到）。⚠ **輪播的地址電話建議「不放」**：輪播回答的是什麼時候不是在哪裡。⚠ 量到：預約成功 296 → **254**；查詢每張 **372 → 124**（不放地址）／229（放）；現況的電話在 207 上**折成兩段**、新版沒有。五個寬度（430／393／390／375／360）建議那一組逐格相同、孤字 0、水平溢出 0、JS 0、切換條 24.7%；216 組狀態全掃過。⚠⚠ **字型校正**：「2026/08/25 (二) 10:15」截圖上的墨是 237px、提案頁畫出來 266px ＝ **比 LINE 寬約 10%**，所以面板那個「本來多寬」偏保守，**差 10% 以內的不要當結論**；查詢那張差 **65px（29%）** 且截圖上真的截了 —— 那一格是結論。⚠⚠ **這一則的文字是我們擬的**（「幫你約好了」「等你回覆」）——前三則每一個字都是使用者自己寫的，而且每次他的版本都更好，**等他換**。⚠ **地址逐字照廠商現在送的那一份**（`雲林縣斗六市永樂街70號 1-2樓`）—— 站上寫的沒有「1-2 樓」，兩邊不一樣這件事記著，但沒有自己拿掉。⚠ **Flex 的 JSON 與圖片檔等挑完才做**。推導在 `drafts/channels/README.md` **第二十二節**。⚠⚠⚠ **2026-09-04 稍晚三件**（第 **22-12** 節）：**預約狀態整行拿掉**（使用者指定）——⚠ **但那個問題沒有跟著消失**：廠商那張狀態表還是要，因為如果「尚未回覆」真的會導致自動取消，病人**更**需要知道，只是**知道的地方該是提醒卡那顆按鈕不是一張查詢用的收據**。⚠⚠⚠ **「LINE 裡可以設置對話框浮水印嗎」查證了：做不到，而且不是設定藏起來** ——聊天室背景是**每個使用者在自己手機上設的**（聊天室右上 → 設定 → 背景），而且**只有他自己看得到、對方看不到**；官方帳號後台能改的是**帳號主頁**那張封面照。⚠⚠ **卡片自己裡面可以，但 Flex 有兩條硬限制**（查官方 SDK 原始碼確定的）：**box 沒有背景圖**（`background` 只認 `linearGradient`，沒有 `backgroundImage`）、**image 沒有 opacity**（淡要**烘進 PNG 的 alpha**，同招呼卡那兩顆 logo 烘顏色）。產圖 `node drafts/channels/booked-mark.mjs` → `mark-wm-{08,12,18}.png`（420×207、頁首那一條、`#3f654a`，**沒有新增顏色**）。⚠⚠⚠ **而它要靠 `position: absolute` 疊，這一項沒有實機驗過** —— 文件寫著「**一個 box 的第一個子元件不可以是 absolute**」，但**後面的元件會不會蓋在前面的上面**文件沒明講，**要一支測試訊息**。所以尺上留了一格**「右邊一顆」**（同一行、不重疊、**100% 支援的退路**）。⚠⚠ **「單調」拆成四格，差別在要不要動到廠商**：只有日期 98px／**浮水印 98px（預設，一個字都不用改）**／右邊一顆 104px／**大日子 74px（月小・日 40px・星期時間排旁邊，對單調最有效）**。⚠⚠⚠ **「大日子」不是版面問題是資料問題** —— 現在那一整串日期是**系統填的一個欄位**，要拆成四塊得廠商給（**同提醒卡那條「有變數的那一行不能手動斷行」：版面能不能做，先問那段字是誰填的**）。⚠ 更有效但同樣要問廠商的是**「還有幾天」**。⚠ 浮水印可和其他三格併用（`?wm=1`），切換條放不下第五列。⚠ 提案頁踩到一件：**「大日子」那三塊字級不同 → 逐字分組的 top 不同 → 被面板報成六個孤字**，那是**量測的假警報**，判準同「電話自己一行」：自己排出來的短句不算孤字。⚠ 量到：四格在 430／390／375 逐格相同、卡片 207.0、孤字 0、溢出 0、JS 0、切換條 24.7%；144 組全掃過；浮水印那格「字壓在最濃處」10.86 ✓。⚠⚠⚠ **2026-09-04 再一輪：九顆浮水印**（使用者：「我們有 9 個 logo，可以自動選擇不同的浮水印嗎」，第 **22-13** 節）—— 那九顆 ＝ `brand/shapes/shape-r{1,2,3}c{1,2,3}.svg`，⚠ **`r1c2` 就是站上頁首那顆**，九顆裡本來就含著現在用的那一顆、不是第十顆。產圖 `node drafts/channels/booked-mark.mjs` → `wm-<形狀>-<濃度>.png`（9×3 ＝ 27 張）＋ **`wm-sizes.json`**。⚠⚠⚠ **九顆不能用同一個寬度** —— 四種長寬比（1.00／1.33／2.03／3.08），同寬的話細長那幾顆會矮一大截、看起來輕很多（**同招呼卡 18-10 那條「粗是墨量不是厚度」**）。所以**按墨的面積正規化**，基準是 r1c2 在 150px 時的墨面積，每一顆反解出自己的寬度（**r3c3 墨只佔外框 59.6%，要 215px 才等重**—— 那是「不能同寬」最極端的證據）；九顆的**墨面積離散度 1.14%**，產生器超過 2% 就 throw。⚠⚠ **寬度只有一份出處 `wm-sizes.json`**，提案頁 `fetch` 讀它、日後寫 Flex JSON 也讀它，**不要在第二個地方再寫一份**（讀不到時九顆退回同一個寬度，面板會標紅）。⚠⚠⚠ **「自動選擇」不在我們這一側** —— Flex JSON 是廠商系統組的。三種規則差很多：**按日期算 `(月＋日)%9`（建議，同一筆約診查幾次都是同一顆、取消一筆不影響其他筆）**／按位置輪流（⚠ 取消一筆後面全部換人）／隨機（⚠⚠ 同一筆每次都不一樣，**讀起來像壞掉**）。提案頁現在就是按日期算的。⚠ 廠商不能算的退路兩層：**整包同一顆**、或**兩則各一顆**（靜態、零依賴）。⚠ **這一題和「日期能不能拆成欄位」同一類：版面能不能做，先問那段東西是誰填的。**⚠⚠ 提案頁踩到一件：**按鈕包在 `<span id="sw-…">` 裡，那個 span 不是 flex 容器的話，按鈕會在 span 裡換行、`.r` 的 `overflow-x: auto` 根本用不到**，五格那一列因此變兩倍高（24.7% → 27.5%，而 `scrollWidth === clientWidth` ＝ 沒有在捲）。補一條 `display:flex` 就回到 24.2%。⚠⚠⚠ **九顆做好了，但在這個裁切下只有五顆真的分得出來** —— 逐像素兩兩比過（207×98 的卡、同位置同濃度，差 ≥2 階才算）：36 對中位數 26.6%、最不像的 52.0%，**但有 5 對低於 10%**（r1c1×r3c1 4.8／r1c3×r2c3 4.8／r3c1×r3c2 5.5／r1c1×r3c2 8.9／r1c2×r2c1 9.7）。⚠⚠ **成因是裁切不是形狀**：浮水印只露出右下角一塊，兩顆同長寬比的露出來的那塊幾乎一樣。→ 兩兩都 ≥10% 的最大一組是**五顆**（r1c1／r1c2／r1c3／r2c2／r3c3）。⚠⚠⚠ **但「只用五顆」有代價而且算得出來，所以預設仍然是九顆**：規則是**日期的線性式取餘數**，**兩筆約診差 N 天（或 N 的倍數）就一定撞同一顆** ——**九顆：7／14／21／28／30 天全部不會撞**；五顆：5／10／15／**30** 會撞（**30 天是真的會發生的回診間隔**）。⚠ **實測就撞到了**：示範的 8/20 與 8/25 差 5 天，切成五顆時前兩張是同一顆、**畫面上看起來就是壞掉**。所以**預設九顆**、`?n=5` 切五顆，**面板現場數相鄰有沒有撞**。⚠ **第三條路是把浮水印縮小** —— 形狀露得完整，**九顆都分得出來、間隔行為也好，兩個問題一起解**，代價是品牌感更弱 —— **還沒問使用者**。⚠⚠ **通則：素材數量、可辨識度、撞號機率是三個互相拉扯的量**，挑池子大小之前要三個一起算。⚠⚠⚠ **通則：「有九個素材」不等於「有九種變化」** —— 素材要在**實際會被看到的那個裁切下**兩兩比過才算數（同分享卡那一輪「要看 250px 下讀不讀得懂」：**在成品的尺寸上量，不要在素材的尺寸上量**）。⚠ 量到：180 組 × 3 寬度 ＝ **540 次**、溢出 0、JS 0、切換條 24.2%、`wm-sizes.json` 每組都讀得到、示範那三張相鄰沒有撞；每一顆露在卡上的墨 35.2~37.5%（正規化在卡片上也成立） |
 
 ### 十一之二、⚠⚠ LINE Flex Message 的硬條件（不知道會做出對不上的東西）

diff --git a/drafts/channels/README.md b/drafts/channels/README.md
@@ -3325,6 +3325,110 @@ node drafts/channels/review-png.mjs --chat   # 連聊天室（430 寬）
 挑定之後才會出 `drafts/channels/review-card.json` 與守門 `check-review.mjs`，
 **在那之前不要拿任何東西給廠商**。
 定案之後照第十一之五節**改寫成規格頁**（切換條拿掉、頁面留著）。
+
+### 21-9　2026-09-05：開場換成使用者寫的，下面那一段給五案
+
+他給的（逐字）：
+
+```
+哈囉 病人姓名 回去牙齒都還好嗎
+有什麼狀況的話記得跟診所聯繫一下
+```
+
+以及：「**下面的文字再給我幾個方案讓我選。現在的版本太溫柔太客氣。**」
+
+#### 開場：用字一個都沒改，只做斷行
+
+```
+哈囉　〔病人姓名〕            md 16（名字 bold）
+回去牙齒都還好嗎
+有什麼狀況的話                sm 14 柔墨
+記得跟診所聯繫一下
+```
+
+⚠ 名字那一行**只能自己一行**（系統填的，長度不知道，同提醒卡）；第二句也自己斷。
+
+⚠⚠ **他這一句把整張卡的順序換掉了：先關心、再開口。**
+原本第一句是「〔病人姓名〕　這次辛苦了」——那是對**已經過去**的事道辛苦；
+他這一版問的是**現在**（回去之後好不好），而且**先給了一件對病人有用的事**
+（有狀況要聯繫），才輪到我們要的那一件。**要東西之前先給東西**，這比原本那一版好。
+
+⚠ 名字仍然是**受詞不是稱謂**（第 17-4 節）：「哈囉　〔名字〕」問的是**那個人的牙齒**，
+阿嬤、媽媽、子女讀到都對。
+
+#### ⚠⚠⚠ 而它讓底下那一塊變得**更**必要，不是更不必要
+
+他叫病人「**記得跟診所聯繫一下**」——而病人手邊**最近的按鈕，
+就是在這個 LINE 裡回一句話**，然後沒有人看得到。
+
+所以底下那一塊的工作變了：**從「另外給一個私下的意見管道」，
+變成「回答他自己丟出來的問題」——要聯繫，聯繫哪裡。** 文字跟著改：
+
+```
+這裡沒有專人看訊息，
+要找我們就打 05-5339369，
+或下次來跟櫃檯說一聲。
+```
+
+⚠ 它同時仍然守住第 17-3 節那條（私下的管道給所有人，不是「不滿意的人才走這條」）。
+⚠ 號碼寫在說明句裡、**沒有做成按鈕**（第十一之四節那條通則）。代價是
+**Flex 裡的文字不會自動變成可撥的** —— 要它撥得下去得掛 `tel:`，**還沒問過使用者**。
+
+#### 「太溫柔太客氣」拆開來是三件各自獨立的事
+
+同第九節第 17 條那個淡出：**一句抱怨裡有三個量，修一個不會治好另外兩個。**
+
+| | 是什麼 | 原本那一版哪裡犯 |
+| --- | --- | --- |
+| ① **墊詞** | 把請求包起來，讀起來像在道歉 | 「**方便的話**，在 Google 上留幾句話」 |
+| ② **不敢說是自己要的** | 把受益者推給第三人，很得體，但**不承認這是診所在拜託人** | 「不管寫什麼，都會**幫到下一個正在找牙醫的人**」 |
+| ③ **句子太長** | 四行、每行都完整，反而像公關稿 | 整段四行 |
+
+⚠ **短句本身就比較不客氣** —— 這一條不必靠換字，靠刪。
+
+#### ⚠⚠⚠ 但有一條線不可以跟著跨過去：**不可以先問滿不滿意**
+
+「如果覺得還不錯」「滿意的話再幫我們寫」聽起來只是一句客套，
+但它是**分流的另一種寫法**（第 17-3 節），而且**比現況那兩顆按鈕更難被發現**。
+**五案裡一句都沒有**；Ⓐ 與 Ⓒ 還反過來明寫「**好的不好的都寫**」。
+
+#### 五案（`?a=a|b|c|d|e`）
+
+| | 動到哪幾件 | 文字 |
+| --- | --- | --- |
+| **Ⓐ 拜託一件事**（建議） | ①② | 另外想拜託你一件事——／在 Google 上寫幾句這次的經驗，／好的不好的都寫，一兩句就好。 |
+| **Ⓑ 很多人在看** | ② | 現在很多人是看 Google 評論／才決定要不要來。／你寫的一兩句，／就是下一個人的參考。 |
+| **Ⓒ 順手寫幾句** | ①②③ | 順手在 Google 上寫幾句吧，／好的不好的都寫。 |
+| **Ⓓ 想知道你怎麼看** | ①② | 我們想知道你怎麼看這次的看診。／在 Google 上寫幾句，寫什麼都行。 |
+| **Ⓔ 現在的（客氣）** | — | 方便的話，在 Google 上留幾句話，／說說這一次的經驗。／不管寫什麼，都會幫到／下一個正在找牙醫的人。 |
+
+**建議 Ⓐ**：它把「這是我們在拜託你」講出來（那正是客氣版不敢講的），
+又用「一兩句就好」把門檻壓到最低。
+**最不客氣的是 Ⓒ**（兩行、沒有任何鋪陳）；
+**Ⓑ 是唯一給理由的**（很多人看評論才決定要不要來 —— 那是事實，也是這一則真正的動機）；
+**Ⓓ 把主詞換成診所**（我們想知道），語氣最平、最像在對談。
+
+#### 量到的（430／393／390／375／360 五個寬度，五案 × 三格聯繫都跑過）
+
+卡片 **268.0px**、高 **Ⓐ 540／Ⓑ 565／Ⓒ 516／Ⓓ 516／Ⓔ 565**、
+自己斷幾行 ＝ 畫出幾行（**一行都沒被再折**）、**孤字 0**、水平溢出 **0**、JS 錯誤 **0**、
+最寬一行 **184~226px**（可用 240）、名字那一行 **9 個字**以內不會折、
+兩組間隔 **17.0 / 5.0**、切換條 **16.6~19.8%**。
+
+⚠ 「加電話鈕」那一格 Ⓐ 是 587px、「不放」那一格 Ⓒ 只有 408px。
+
+#### 出圖多了兩個開關
+
+```bash
+node drafts/channels/review-png.mjs --all      # 五案各一張 ＋ 並排那一張
+node drafts/channels/review-png.mjs --ask=c    # 指定其中一案
+```
+
+⚠⚠ **並排那一張（`shot-review-asks.png`）是「先各拍一張真的卡，再把那五張圖排進
+一頁重拍」，不是用 CSS 把卡片畫五次** —— 同 og-topic-card 那一輪：提案頁要擺真的產出檔。
+這樣它永遠等於提案頁上按下去會看到的東西。
+⚠ 那一張是橫的，所以守門的「高比寬還小 ＝ 只拍到一截」那一道要跳過（多一個 `strip` 參數），
+而且它是 **2×** 不是 3×（1412 CSS px 寬），**比例尺要一起傳進守門**，不然會誤報。
 ---
 
 ## 二十二、2026-09-04：**預約成功通知 ＋ 約診紀錄查詢**（提案頁 `/preview/line-booked/`）
